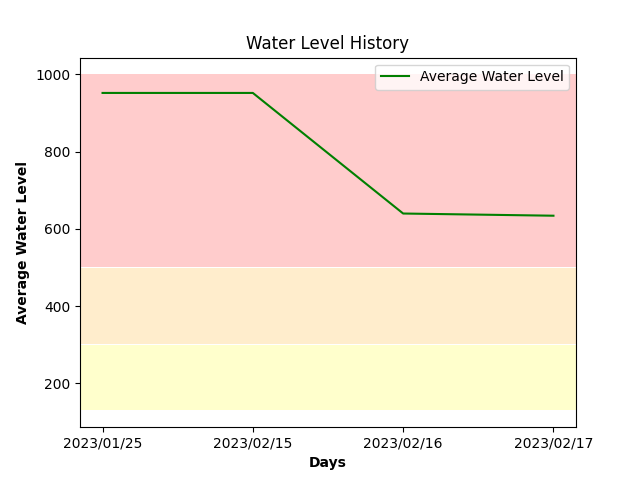
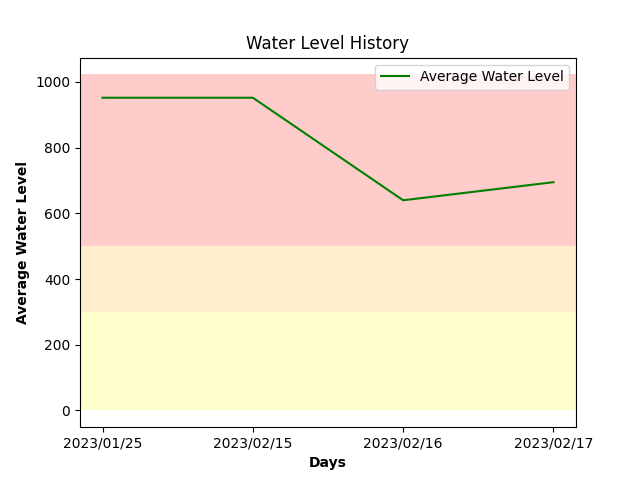
passed

diff --git a/templates/index.html b/templates/index.html
@@ -10,7 +10,7 @@
     </script>
     <style>
       body {
-        font-family: Arial, Helvetica, sans-serif;
+        font-family: Helvetica;
       }
 
       h1 {

diff --git a/templates/search.html b/templates/search.html
@@ -6,7 +6,7 @@
 
     <style>
       body {
-        font-family: Arial, Helvetica, sans-serif;
+        font-family: Helvetica;
       }
 
       h1,

diff --git a/weatherWarnings.py b/weatherWarnings.py
@@ -1,99 +1,92 @@
 def warningMessages():
     import mysql.connector
 
-    mydb = mysql.connector.connect(
-        host="localhost",
-        user="root",
-        password="root",
-        database="sample"
-    )
-    
+    mydb = mysql.connector.connect(host="localhost",
+                                   user="root",
+                                   password="root",
+                                   database="sample")
+
     mycursor = mydb.cursor()
     mycursor.execute("Select * from weatherdata ORDER BY dtime DESC LIMIT 1;")
     myresult = mycursor.fetchall()
     myresult = myresult[0]
     warnings = []
- 
+
     temp = int(myresult[4])
-    ws= int(myresult[0])
-    ap= int(myresult[1])
-    wl= int(myresult[2])
-    hu= int(myresult[3])
-    
-    message=""
-   
+    ws = int(myresult[0])
+    ap = int(myresult[1])
+    wl = int(myresult[2])
+    hu = int(myresult[3])
+
+    message = ""
 
     #----- temperature-----
     if temp <= 20:
-        message = "Warning: Extremely Cold temperature, wear protective gears when going out  "
-             
+        message = "Warning: Extremely Cold temperature, wear protective gears when going out"
+
     elif 31 > temp > 21:
         message = "Advisory: Normal temperature, great time to go to the beach"
-    
+
     elif 35 > temp > 31:
-        message = "Caution: Fatigue is possible with prolonged exposure and activity. Continuing activity could result in heat cramps"
-    
+        message = "Caution: Moderately High Heat. Fatigue is possible with prolonged exposure and activity. Continuing activity could result in heat cramps"
+
     else:
-        message ="Caution: Extremely hot temperature, don't go ouside please"
-    
-    warnings.append(message) 
-    
-     #----- Wind speed-----       
+        message = "Caution: Extremely hot temperature, don't go ouside please"
+
+    warnings.append(message)
+
+    #----- Wind speed-----
     if ws <= 750:
         message = "Advisory: Low Wind Speed, a perfect day to fly a kite or enjoy a leisurely stroll without worrying about your hair!"
-            
-    elif 1000 > ws > 751  :
+
+    elif 1000 > ws > 751:
         message = "Advisory:  Average Wind Speed, So, grab a scarf and feel the wind or impress people with your windswept look!!"
-            
-    elif 1500 > ws > 1001  :
+
+    elif 1500 > ws > 1001:
         message = "Advisory: High Wind Speed, Unsecured, exposed outdoor items of light to moderate weight may become projectiles, causing additional damage or injuries."
-            
+
     elif ws > 1600:
-        message= "Advisory: Very High Wind Speed, Take Action! Sustained, strong winds with even stronger gusts are happening. Seek shelter. If you are driving, keep both hands on the wheels and slow down."
-    
-    warnings.append(message) 
-    
+        message = "Advisory: Very High Wind Speed, Take Action! Sustained, strong winds with even stronger gusts are happening. Seek shelter. If you are driving, keep both hands on the wheels and slow down."
+
+    warnings.append(message)
+
     #----- air pressure-----
     if ap <= 500:
-        message = "The atmospheric pressure is low, so take it easy and don't forget to drink lots of water."
-            
-    elif 501 < ap < 600  :
+        message = "Caution: The atmospheric pressure is low, so take it easy and don't forget to drink lots of water."
+
+    elif 501 < ap < 600:
         message = "Advisory: Average Air Pressure, the air is just right for a perfect day out! So why not enjoy the great outdoors and breathe in the freshness of the air"
-            
-    elif ap >= 601  :
+
+    elif ap >= 601:
         message = "Advisory: High Air Pressure, Objects that are outdoors should be secured and caution should be taken if driving."
-            
-    warnings.append(message) 
+
+    warnings.append(message)
 
     #----- water level-----
     if wl <= 130:
         message = "Warning: Very Low Water level, water activities may be limited or not possible. Be mindful of rocks, sandbars, or other hazards that may be exposed."
-            
-    elif 300 > wl > 131  :
+
+    elif 300 > wl > 131:
         message = "Advisory: Low Water level, try walking along the shoreline and discovering new sights and sounds!"
-            
-    elif 500 > wl > 301  :
+
+    elif 500 > wl > 301:
         message = "Advisory: High Water Level, time to grab your surfboard and hang ten! The higher water level can create some awesome waves and great surf conditions. Just make sure to be safe and follow proper surfing etiquette!"
-            
+
     elif wl > 501:
         message = "Warning: Very High Water Level, Please exercise caution and stay away from the water's edge, as the currents may be stronger than usual. Remember, your safety is our top priority!"
-            
+
     warnings.append(message)
-     
-    
+
     #----- Humidity-----
     if hu <= 600:
         message = "Advisory: Low Humidity, be sure to hydrate and moisturize! The dry air can take a toll on your skin and body, so make sure to drink plenty of water and moisturizers!"
-            
-    elif 900 > hu > 601 :
+
+    elif 900 > hu > 601:
         message = "Advisory: Average Humidity, enjoy the pleasant weather! With the humidity at a comfortable level, it's the perfect time to get outside and get those legs pumping!"
-            
-    elif hu >= 901 :
+
+    elif hu >= 901:
         message = "Advisory: High Humidity, stay cool and comfortable! With the high humidity, the air can feel heavy and sticky, so be sure to stay in air-conditioned or well-ventilated areas as much as possible."
-            
-    warnings.append(message)    
 
-
-    
+    warnings.append(message)
 
     return warnings

diff --git a/generate.py b/generate.py
@@ -1,21 +1,18 @@
-import serial
-import MySQLdb
 from datetime import datetime
 import mysql.connector
 import os
 import matplotlib
-
 matplotlib.use('Agg')
 import matplotlib.pyplot as plt
 
 
 def generate_graphs():
 
-    secsA = []
+    secPassed = []
 
-    datas = {ix: [] for ix in range(5)} #latest record
+    datas = {ix: [] for ix in range(5)}  #latest record
     xs = {ix: [] for ix in range(5)}  #time
-    ys = {ix: [] for ix in range(5)}  #sensor values at this second
+    ys = {ix: [] for ix in range(5)}  #sensor values at this minute
 
     while True:
         date = datetime.now()
@@ -23,7 +20,7 @@ def generate_graphs():
 
         # seconds at our time atm
         sec = str(date)[-2:]
-        secsA.append(int(sec))  # append to array
+        secPassed.append(int(sec))  # append to seconds Passed
 
         mydb = mysql.connector.connect(host="localhost",
                                        user="root",
@@ -39,7 +36,7 @@ def generate_graphs():
 
         for idx in range(5):
             datas[idx].append(float(myresult[idx]))
-            xs[idx], ys[idx] = setXY(seconds=secsA,
+            xs[idx], ys[idx] = setXY(seconds=secPassed,
                                      x=xs[idx],
                                      y=ys[idx],
                                      data=datas[idx])
@@ -55,7 +52,7 @@ def generate_graphs():
               xs=xs[0],
               ys=ys[0],
               xlabel=date,
-              ylabel="Anemometer",
+              ylabel="Anemometer Value",
               title="WindSpeed")
 
         graph(code="ap",
@@ -96,28 +93,28 @@ def graph(code, xs, ys, xlabel, ylabel, title, avg=0):
         plt.axhspan(55, 100, facecolor="red", alpha=0.2)
     elif code == "ws":
         if avg == 0:
-            plt.axis([0, 60, 400, 1900])
-        plt.axhspan(750, 1000, facecolor="yellow", alpha=0.2)
+            plt.axis([0, 60, 636, 1750])
+        plt.axhspan(636, 1000, facecolor="yellow", alpha=0.2)
         plt.axhspan(1001, 1500, facecolor="orange", alpha=0.2)
-        plt.axhspan(1500, 1600, facecolor="red", alpha=0.2)
+        plt.axhspan(1500, 1659, facecolor="red", alpha=0.2)
     elif code == "ap":
         if avg == 0:
-            plt.axis([0, 60, 200, 1000])
-        plt.axhspan(300, 500, facecolor="yellow", alpha=0.2)
+            plt.axis([0, 60, 115, 1400])
+        plt.axhspan(115, 500, facecolor="yellow", alpha=0.2)
         plt.axhspan(501, 600, facecolor="orange", alpha=0.2)
-        plt.axhspan(601, 1000, facecolor="red", alpha=0.2)
+        plt.axhspan(601, 1137, facecolor="red", alpha=0.2)
     elif code == "wl":
         if avg == 0:
-            plt.axis([0, 60, 120, 1200])
-        plt.axhspan(130, 300, facecolor="yellow", alpha=0.2)
+            plt.axis([0, 60, 0, 1100])
+        plt.axhspan(0, 300, facecolor="yellow", alpha=0.2)
         plt.axhspan(301, 500, facecolor="orange", alpha=0.2)
-        plt.axhspan(1000, 501, facecolor="red", alpha=0.2)
+        plt.axhspan(501, 1023, facecolor="red", alpha=0.2)
     elif code == "hu":
         if avg == 0:
-            plt.axis([0, 60, 100, 2000])
-        plt.axhspan(400, 600, facecolor="yellow", alpha=0.2)
+            plt.axis([0, 60, 500, 1700])
+        plt.axhspan(500, 600, facecolor="yellow", alpha=0.2)
         plt.axhspan(601, 900, facecolor="orange", alpha=0.2)
-        plt.axhspan(901, 1400, facecolor="red", alpha=0.2)
+        plt.axhspan(901, 1555, facecolor="red", alpha=0.2)
     else:
         return
 

diff --git a/python_website/app.py b/python_website/app.py
@@ -4,7 +4,7 @@ import threading
 import mysql.connector
 import matplotlib.pyplot as plt
 import os
-from average import getAverageGraph
+from search import getAverageGraph
 from weatherWarnings import warningMessages
 from datetime import datetime
 from generate import generate_graphs
@@ -12,29 +12,25 @@ from generate import generate_graphs
 app = Flask(__name__)
 
 
-
 @app.route('/')
 def home():
     import os
     import matplotlib.pyplot as plt
     import mysql.connector
-    
-    
+
     date1 = request.args.get('date1', default=0)
     date2 = request.args.get('date2', default=0)
-    
+
     if date1 == 0:
         warn = warningMessages()
         return render_template("index.html", warn=warn)
-    
+
     # date1 = datetime.strptime(date1, '%Y-%m-%d')
     # date2 = datetime.strptime(date1, '%Y-%m-%d')
     print(date1, date2)
     getAverageGraph(date1, date2)
-    
+
     return render_template("search.html", start=date1, end=date2)
-
-
 
 
 def generate_graphs_thread():
@@ -43,12 +39,8 @@ def generate_graphs_thread():
 
         time.sleep(2)
 
+
 if __name__ == '__main__':
     generate_thread = threading.Thread(target=generate_graphs_thread)
     generate_thread.start()
     app.run(debug=True, port=8000)
-    
-    
-
-      
-              

diff --git a/app.py b/app.py
@@ -1,44 +1,34 @@
 from flask import Flask, render_template, request
-import time
 import threading
-from average import getAverageGraph
+from search import getAverageGraph
 from weatherWarnings import warningMessages
 from generate import generate_graphs
 
 app = Flask(__name__)
 
 
-
 @app.route('/')
 def home():
-    
+
     date1 = request.args.get('date1', default=0)
     date2 = request.args.get('date2', default=0)
-    
+
     if date1 == 0:
         warn = warningMessages()
         return render_template("index.html", warn=warn)
 
     getAverageGraph(date1, date2)
-    
+
     return render_template("search.html", start=date1, end=date2)
-
-
 
 
 def generate_graphs_thread():
     while True:
         generate_graphs()
 
-        time.sleep(2)
 
 if __name__ == '__main__':
     generate_thread = threading.Thread(target=generate_graphs_thread)
     generate_thread.start()
 
     app.run(debug=True, port=8000)
-    
-    
-
-      
-              

diff --git a/search.py b/search.py
@@ -17,8 +17,8 @@ def getAverageGraph(date1, date2):
     xs = []  #date
     ys = {idx: [] for idx in range(5)}
 
-    query2 = f"SELECT AVG(ws), AVG(ap), AVG(wl), AVG(hu), AVG(tc), dtime FROM weatherdata WHERE dtime >= '{date1} 00:00:00' AND dtime <= '{date2} 23:59:59' GROUP BY date(dtime)"
-    mycursor.execute(query2)
+    myquery = f"SELECT AVG(ws), AVG(ap), AVG(wl), AVG(hu), AVG(tc), dtime FROM weatherdata WHERE dtime >= '{date1} 00:00:00' AND dtime <= '{date2} 23:59:59' GROUP BY date(dtime)"
+    mycursor.execute(myquery)
     myresult = mycursor.fetchall()
 
     for i in myresult:
